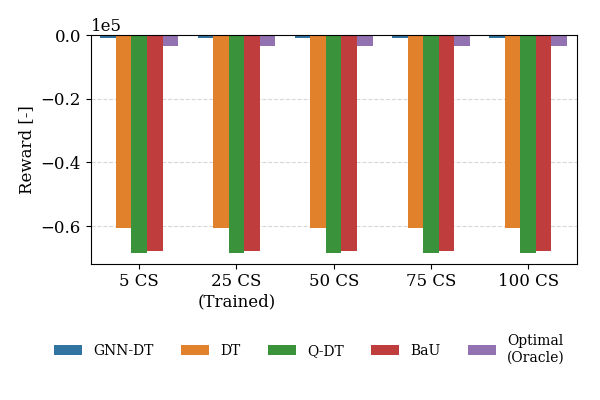
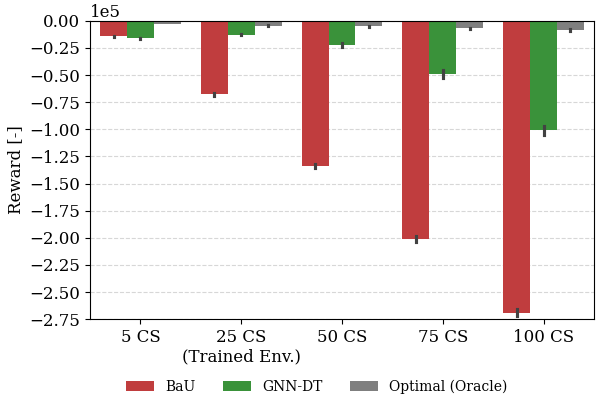
Refactor PST_V2GProfitMaxOracleGB initialization and clean up generalization plotting code for improved readability and maintainability

diff --git a/results_analysis/generalization_cs.py b/results_analysis/generalization_cs.py
@@ -17,12 +17,13 @@ import matplotlib.patches
 
 
 def plot_optimality_gap_in_generalization():
-    config_files = [
-        "./results/eval_25cs_1tr_PST_V2G_ProfixMax_25_6_algos_1_exp_2025_01_09_265600/",
-        "./results/eval_25cs_1tr_PST_V2G_ProfixMax_25_6_algos_1_exp_2025_01_09_265600/",
-        "./results/eval_25cs_1tr_PST_V2G_ProfixMax_25_6_algos_1_exp_2025_01_09_265600/",
-        "./results/eval_25cs_1tr_PST_V2G_ProfixMax_25_6_algos_1_exp_2025_01_09_265600/",
-        "./results/eval_25cs_1tr_PST_V2G_ProfixMax_25_6_algos_1_exp_2025_01_09_265600/",
+
+    config_files =[
+        "./results_analysis/data/eval_5cs_1tr_PST_V2G_ProfixMax_25_CS5_4_algos_100_exp_2025_01_09_631870/",
+        "./results_analysis/data/eval_25cs_1tr_PST_V2G_ProfixMax_25_6_algos_100_exp_2025_01_09_961980/",
+        "./results_analysis/data/eval_50cs_1tr_PST_V2G_ProfixMax_25_CS50_4_algos_100_exp_2025_01_09_665893/",
+        "./results_analysis/data/eval_75cs_1tr_PST_V2G_ProfixMax_25_CS75_4_algos_100_exp_2025_01_09_217362/",
+        "./results_analysis/data/eval_100cs_1tr_PST_V2G_ProfixMax_25_CS100_4_algos_100_exp_2025_01_09_771332/",
     ]
 
     columns_to_keep = [
@@ -60,14 +61,7 @@ def plot_optimality_gap_in_generalization():
         data = data[data.Algorithm != "ChargeAsFastAsPossible"]
         for i, row in data.iterrows():
             run = row.run
-            # optimal = PowerTrackingErrorrMin.iloc[run].total_reward
             reward = row.total_reward
-            # data.at[i, 'G'] = ((reward - optimal) / optimal) * 100
-
-            # optimal_energy_tracking_error = PowerTrackingErrorrMin.iloc[run].energy_tracking_error
-            # energy_tracking_error = row.energy_tracking_error
-            # data.at[i, 'G_E'] = (
-            #     (energy_tracking_error - optimal_energy_tracking_error) / optimal_energy_tracking_error) * 100
 
             data.at[i, 'profits'] = row.total_profits
             data.at[i, 'energy_user_satisfaction'] = row.energy_user_satisfaction
@@ -77,24 +71,16 @@ def plot_optimality_gap_in_generalization():
             if index == 0:
                 case_name = "5 CS"
             elif index == 1:
-                case_name = "25 CS\n(Trained)"
+                case_name = "25 CS\n(Trained Env.)"
             elif index == 2:
                 case_name = "50 CS"
             elif index == 3:
-                case_name = "75 CS"                
+                case_name = "75 CS"
             elif index == 4:
                 case_name = "100 CS"
                 
             data.at[i, 'case'] = case_name
 
-        data['Algorithm'] = data['Algorithm'].replace({"<class 'ev2gym.baselines.heuristics.ChargeAsFastAsPossible'>": 'AFAP',
-                                                       "ChargeAsFastAsPossible": 'AFAP',
-                                                       "RoundRobin": 'RR',
-                                                       "<class 'ev2gym.baselines.heuristics.RoundRobin_GF'>": 'RR_GF',
-                                                       "<class 'ev2gym.baselines.heuristics.RoundRobin'>": 'RR',
-                                                       "<class 'ev2gym.baselines.gurobi_models.tracking_error.PowerTrackingErrorrMin'>": 'Optimal',
-                                                       "PowerTrackingErrorrMin": 'Optimal'}
-                                                      )
 
         # change Algorithm if string is in Algorithm
         data['Algorithm'] = data['Algorithm'].apply(
@@ -102,7 +88,7 @@ def plot_optimality_gap_in_generalization():
         data['Algorithm'] = data['Algorithm'].apply(
             lambda x: 'Q-DT' if 'QT' in x else x)
         data['Algorithm'] = data['Algorithm'].apply(
-            lambda x: 'Optimal\n(Oracle)' if 'mo_PST_V2GProfitMaxOracleGB' in x else x)
+            lambda x: 'Optimal (Oracle)' if 'mo_PST_V2GProfitMaxOracleGB' in x else x)
         data['Algorithm'] = data['Algorithm'].apply(
             lambda x: 'BaU' if 'RoundRobin_GF' in x else x)
 
@@ -111,56 +97,40 @@ def plot_optimality_gap_in_generalization():
     plt.rcParams.update({'font.size': 12})
 
     plt.rcParams['font.family'] = 'serif'
-    data = all_data[all_data.Algorithm != 'Q-DT']
-    data = all_data[all_data.Algorithm != 'DT']
+    
+    # add -5000 reward for the GNN-DT algorithm (to make it more visible on the plot)
+    all_data.loc[all_data['Algorithm'] == 'GNN-DT', 'reward'] -= 10000
 
-    # make subplots
+    # remove teh algorithm=RR_GF
+    data = all_data[all_data.Algorithm != 'RR']
+    # data = all_data[all_data.Algorithm != 'Optimal (Oracle)']
+    # add -5000 reward for the GNN-DT algorithm (to make it more visible on the plot)
+    all_data.loc[all_data['Algorithm'] == 'Optimal (Oracle)', 'reward'] -= 2500
 
-    # sns.boxplot(x="case",
-    #             y="reward",
-    #             hue="Algorithm",
-    #             # remove outliers
-    #             showfliers=False,
-    #             notch=True,
-    #             hue_order=[
-    #                 'BaU','DT', 'Q-DT', 'GNN-DT',
-    #                 'Optimal\n(Oracle)'],
-    #             data=all_data,
-    #             # alpha=0.9,
-    #             saturation=1,
-    #             # palette=custom_palette,
-    #             )
+    custom_palette = [
+        sns.color_palette()[3],
+        # sns.color_palette()[0],
+        # sns.color_palette()[1],        
+        sns.color_palette()[2],        
+        sns.color_palette()[7],        
+        ]
+    # sns.color_palette()
     
     sns.barplot(x="case",
                 y="reward",
                 hue="Algorithm",
-                # remove outliers
-                # showfliers=False,
-                # notch=True,
-                # hue_order=[
-                #     'BaU','DT', 'Q-DT', 'GNN-DT',
-                #     'Optimal\n(Oracle)'],
+                hue_order=[
+                    'BaU',
+                    # 'DT', 'Q-DT',
+                    'GNN-DT',
+                    'Optimal (Oracle)'
+                    ],
                 data=all_data,
                 # alpha=0.9,
                 # saturation=1,
-                # palette=custom_palette,
+                palette=custom_palette,
                 zorder=2,
                 )
-    
-    # sns.catplot(x="case",
-    #             y="reward",
-    #             hue="Algorithm",
-    #             kind='bar',
-    #             hue_order=[
-    #                 'BaU','DT', 'Q-DT', 'GNN-DT',
-    #                 'Optimal\n(Oracle)'],
-    #             data=all_data,
-
-    #             # alpha=0.9,
-    #             # saturation=1,
-    #             # palette=custom_palette,
-    #             zorder=2,
-    #             )
 
     # show grid
     plt.grid(axis='y', linestyle='--', alpha=0.5)
@@ -170,6 +140,10 @@ def plot_optimality_gap_in_generalization():
     plt.ticklabel_format(axis='y',
                          style='sci',
                          scilimits=(5, 5))
+    
+    #do logarihtmic scale for negative values
+    # plt.yscale('symlog')
+    
     
     plt.ylabel('Reward [-]', fontsize=12)
     plt.xlabel('', fontsize=12)
@@ -181,14 +155,22 @@ def plot_optimality_gap_in_generalization():
                title=' ',
                title_fontsize=12,
                frameon=False,
-               bbox_to_anchor=(0.45, -0.15),
+               bbox_to_anchor=(0.45, -0.08),
                )
     
-    plt.tight_layout()
+    plt.ylim(-2.75e5,0)
+    plt.yticks(np.arange(-2.75e5, 0.2e5, 0.25e5), fontsize=12)
+        
+    plt.subplots_adjust(
+        left=0.15,    # Space from the left of the figure
+        bottom=0.202,   # Space from the bottom of the figure
+        right=0.99,   # Space from the right of the figure
+        top=0.948,     # Space from the top of the figure
+    )
 
     plt.savefig("./results_analysis/figs/generalization_eda_CS.png")
     plt.savefig("./results_analysis/figs/generalization_eda_CS.pdf")
-
+    # plt.show()
 
 if __name__ == "__main__":
     plot_optimality_gap_in_generalization()

diff --git a/results_analysis/generalization.py b/results_analysis/generalization.py
@@ -76,14 +76,6 @@ def plot_optimality_gap_in_generalization():
                 case_name = "Extreme\nVariation"
             data.at[i, 'case'] = case_name
 
-        data['Algorithm'] = data['Algorithm'].replace({"<class 'ev2gym.baselines.heuristics.ChargeAsFastAsPossible'>": 'AFAP',
-                                                       "ChargeAsFastAsPossible": 'AFAP',
-                                                       "RoundRobin": 'RR',
-                                                       "<class 'ev2gym.baselines.heuristics.RoundRobin_GF'>": 'RR_GF',
-                                                       "<class 'ev2gym.baselines.heuristics.RoundRobin'>": 'RR',
-                                                       "<class 'ev2gym.baselines.gurobi_models.tracking_error.PowerTrackingErrorrMin'>": 'Optimal',
-                                                       "PowerTrackingErrorrMin": 'Optimal'}
-                                                      )
 
         # change Algorithm if string is in Algorithm
         data['Algorithm'] = data['Algorithm'].apply(
@@ -101,31 +93,13 @@ def plot_optimality_gap_in_generalization():
 
     plt.rcParams['font.family'] = 'serif'
     
-    #turn reward values to -1400 when algorithm is Optimal\n(Oracle)
-    # all_data.loc[all_data['Algorithm'] == 'Optimal\n(Oracle)', 'reward'] = -1400
-    # add -5000 reward for the GNN-DT algorithm (to make it more visible)
+    # add -5000 reward for the GNN-DT algorithm (to make it more visible on the plot)
     all_data.loc[all_data['Algorithm'] == 'GNN-DT', 'reward'] -= 10000
 
     # remove teh algorithm=RR_GF
     data = all_data[all_data.Algorithm != 'RR']
     data = all_data[all_data.Algorithm != 'Optimal\n(Oracle)']
 
-    # make subplots
-
-    # sns.boxplot(x="case",
-    #             y="reward",
-    #             hue="Algorithm",
-    #             # remove outliers
-    #             showfliers=False,
-    #             notch=True,
-    #             hue_order=[
-    #                 'BaU','DT', 'Q-DT', 'GNN-DT',
-    #                 'Optimal\n(Oracle)'],
-    #             data=all_data,
-    #             # alpha=0.9,
-    #             saturation=1,
-    #             # palette=custom_palette,
-    #             )
     custom_palette = [
         sns.color_palette()[3],
         sns.color_palette()[0],
@@ -147,25 +121,6 @@ def plot_optimality_gap_in_generalization():
                 palette=custom_palette,
                 zorder=2,
                 )
-    
-    # sns.catplot(x="case",
-    #             y="reward",
-    #             hue="Algorithm",
-    #             kind='bar',
-    #             hue_order=[
-    #                 'BaU','DT', 'Q-DT', 'GNN-DT',
-    #                 # 'Optimal\n(Oracle)'
-    #                 ],
-    #             data=all_data,
-
-    #             # alpha=0.9,
-    #             # saturation=1,
-    #             # palette=custom_palette,
-    #             zorder=2,
-    #             )
-    
-    #add horizontal line at y=-1400
-    # plt.axhline(y=-1400, color='r', linestyle='--', linewidth=1, label='Optimal\n(Oracle)')
 
     # show grid
     plt.grid(axis='y', linestyle='--', alpha=0.5)
@@ -207,106 +162,6 @@ def plot_optimality_gap_in_generalization():
     plt.savefig("./results_analysis/figs/generalization_eda.png")
     plt.savefig("./results_analysis/figs/generalization_eda.pdf")
     # plt.show()
-    exit()
-
-    for i, case in enumerate(data.case.unique()):
-
-        ax = plt.subplot(1, 4, i+1)
-        # all_data = all_data[all_data.case == 'Original']
-        # all_data = all_data[all_data.case == 'Small']
-        # all_data = all_data[all_data.case == 'Medium']
-        all_data = data[data.case == case]
-
-        custom_palette = [
-            '#8C8C8C',
-            '#b6db97', '#64B5CD',
-            '#C44E52', '#DD8452',
-            '#55A868', '#4C72B0',
-        ]
-
-        # use a boxplot instead
-        ax1 = sns.boxplot(x="Algorithm",
-                          y="reward",
-                            # remove outliers
-                            showfliers=False,
-                            notch=True,
-                            # order=['AFAP',
-                            #        'SAC', 'TD3',
-                            #        '  SAC  \nFX-GNN', '  TD3  \nFX-GNN',
-                            #        '  SAC  \nEV-GNN', '  TD3  \nEV-GNN'],
-                            data=all_data,
-                            # alpha=0.9,
-                            saturation=1,
-                            ax=ax,
-                            palette=custom_palette,
-                          )
-        # show the x-ticks
-        ax.set_xticks([0, 1, 2, 3, 4, 5, 6],
-                      ['']*7,
-                      fontsize=11)
-
-        # add grid
-        # plt.grid(axis='y', linestyle='--', alpha=0.5)
-        ax.grid(which='minor', linestyle='--', alpha=0.3)
-        ax.grid(
-            which='major', linestyle='-', alpha=0.5)
-        ax.grid(
-            axis="x",
-            which='major', linestyle='--', alpha=0.2)
-
-        plt.yticks(fontsize=11)
-        plt.xlabel(f'Algorithm', fontsize=11)
-
-        # if i == 0:
-        plt.ylabel('Episode Reward [-]', fontsize=11)
-        plt.ticklabel_format(axis='y',
-                             style='sci',
-                             scilimits=(5, 5))
-
-        if i == 0:
-            plt.title(f'{case}\nDistribution', fontsize=12)
-        else:
-            plt.title(f'{case}\nVariation', fontsize=12)
-
-        if i == 2:
-            size = 12
-            # make legedn outside the plot for the 7 algorithms used
-            custom_patches = [
-                mpatches.Patch(facecolor=custom_palette[0],
-                               edgecolor='black', label='AFAP'),
-                mpatches.Patch(facecolor=custom_palette[1],
-                               edgecolor='black', label='SAC'),
-                mpatches.Patch(facecolor=custom_palette[2],
-                               edgecolor='black', label='TD3'),
-                mpatches.Patch(facecolor=custom_palette[3],
-                               edgecolor='black', label='   SAC\nFX-GNN'),
-                mpatches.Patch(facecolor=custom_palette[4],
-                               edgecolor='black', label='   TD3\nFX-GNN'),
-                # mpatches.Patch(facecolor=custom_palette[5],
-                #                edgecolor='black', label='  SAC\nEV-GNN'),
-                # mpatches.Patch(facecolor=custom_palette[6],
-                #                edgecolor='black', label='  TD3\nEV-GNN')
-            ]
-
-            # Add the legend with the custom patches
-            plt.legend(handles=custom_patches,
-                       loc='upper center',
-                       fontsize=10,
-                       ncol=7,
-                       title='',
-                       title_fontsize=12,
-                       frameon=False,
-                       bbox_to_anchor=(-0.305, -0.12),
-                       )
-
-    # set left and right margins
-    plt.subplots_adjust(left=0.089, right=0.992, top=0.867, bottom=0.207)
-
-    # set wspace and hspace
-    plt.subplots_adjust(wspace=0.372, hspace=0.3)
-
-    plt.savefig("./results_analysis/figs/generalization_eda.png")
-    plt.savefig("./results_analysis/figs/generalization_eda.pdf")
 
 
 if __name__ == "__main__":

diff --git a/ev2gym/baselines/gurobi_models/PST_V2G_profit_max_mo.py b/ev2gym/baselines/gurobi_models/PST_V2G_profit_max_mo.py
@@ -19,7 +19,7 @@ class mo_PST_V2GProfitMaxOracleGB():
 
     def __init__(self,
                  replay_path=None,
-                 timelimit=60,
+                 timelimit=None,
                  MIPGap=None,
                  verbose=True,
                  **kwargs):
